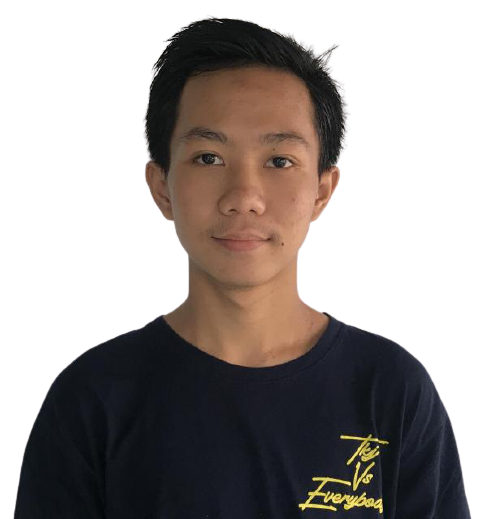
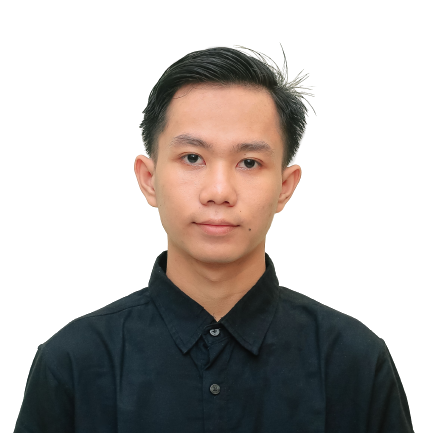
update data and enhance design

diff --git a/src/styles/style.css b/src/styles/style.css
@@ -222,7 +222,7 @@ a {
 }
 
 .home-blob-img {
-  width: 170px;
+  width: 180px;
 }
 
 .home-img {
@@ -237,8 +237,14 @@ a {
 
 .home-title .iam,
 .home-greeting,
-.home-subtitle {
+.home-subtitle,
+.about {
   color: var(--text-color);
+}
+
+.about {
+  margin-top: 0.7rem;
+  margin-bottom: 0.7rem;
 }
 
 .home-social-media {
@@ -274,6 +280,10 @@ a {
   height: 20px;
 }
 
+.be-skill .skills-logo {
+  height: 25px;
+}
+
 .skills-container {
   row-gap: 0;
 }
@@ -306,6 +316,7 @@ a {
 .skills-list {
   height: 0;
   overflow: hidden;
+  text-align: center;
 }
 
 .skill-desc {
@@ -317,7 +328,6 @@ a {
 .skills-open .skills-list {
   height: max-content;
   margin-bottom: 1rem;
-  margin-left: 1rem;
 }
 
 .skills-open .skills-arrow {
@@ -531,10 +541,23 @@ a {
   color: hsl(133, 50%, 95%);
   padding: 0.7rem 5%;
   margin-bottom: var(--header-height);
+}
+
+.footer .first-line{
+  font-size: 1.1rem;
   display: flex;
   justify-content: space-between;
   align-items: center;
-  font-size: 1.1rem;
+}
+
+.footer .inspired {
+  text-align: center;
+  font-size: 0.7rem;
+  position: relative;
+}
+
+.footer a {
+  color: hsl(133, 50%, 95%);
 }
 
 .footer-social-media .socmed-icon {
@@ -661,7 +684,6 @@ a {
 
   .home-data {
     grid-column: initial;
-    padding-top: 5rem;
   }
 
   .home-img {
@@ -676,6 +698,15 @@ a {
     grid-template-columns: repeat(2, 1fr);
   }
 
+  .skills-list {
+    text-align: start;
+    margin-left: 1rem;
+  }
+
+  .be-skill .skills-logo {
+    height: 30px;
+  }  
+
   .contact-container {
     grid-template-columns: repeat(3, 1fr);
   }
@@ -686,6 +717,11 @@ a {
 
   .footer {
     margin-bottom: 0;
+  }
+
+  .footer .inspired {
+    top: -25px;
+    height: 0
   }
 }
 
@@ -716,8 +752,8 @@ a {
     font-size: 1.7rem;
   }
 
-  .home-data {
-    padding-top: 3rem;
+  .about {
+    font-size: 1.1rem;
   }
 
   .footer {

diff --git a/index.html b/index.html
@@ -38,27 +38,30 @@
     </main>
 
     <footer class="footer" id="footer">
-      <div class="copyright">
-        <i class="uil uil-copyright"></i>
-        2022 | Zidni Rif'an
+      <div class="first-line">
+        <div class="copyright">
+          <i class="uil uil-copyright"></i>
+          <script>document.write(/\d{4}/.exec(Date())[0])</script> | Zidni Rif'an
+        </div>
+        <div class="footer-social-media">
+          <a
+            href="https://www.linkedin.com/in/zidnirifan"
+            class="socmed-icon"
+            target="_blank"
+            ><i class="uil uil-linkedin"></i
+          ></a>
+          <a
+            href="https://github.com/zidnirifan"
+            class="socmed-icon"
+            target="_blank"
+            ><i class="uil uil-github"></i
+          ></a>
+          <a href="https://instagram.com/zidni_rifan" class="socmed-icon" target="_blank"
+            ><i class="uil uil-instagram"></i
+          ></a>
+        </div>
       </div>
-      <div class="footer-social-media">
-        <a
-          href="https://www.linkedin.com/in/zidnirifan"
-          class="socmed-icon"
-          target="_blank"
-          ><i class="uil uil-linkedin"></i
-        ></a>
-        <a
-          href="https://github.com/zidnirifan"
-          class="socmed-icon"
-          target="_blank"
-          ><i class="uil uil-github"></i
-        ></a>
-        <a href="https://instagram.com" class="socmed-icon" target="_blank"
-          ><i class="uil uil-instagram"></i
-        ></a>
-      </div>
+      <div class="inspired">Inspired from <a href="https://www.youtube.com/@Bedimcode" target="_blank">@Bedimcode</a></div>
     </footer>
 
     <!-- Scroll up -->

diff --git a/src/scripts/components/skills-section.js b/src/scripts/components/skills-section.js
@@ -34,19 +34,8 @@ class SkillsSection extends HTMLElement {
     this.innerHTML = /* html */ `<section class="skills section" id="skills">
       <h2 class="section-title">Skills</h2>
       <div class="skills-container grid">
-        <div class="skills-content skills-open">
-          <div class="skills-header">
-            <i class="uil uil-brackets-curly skills-icon"></i>
-            <h3 class="skills-title">Front-End Development</h3>
-            <i class="uil uil-angle-down skills-arrow"></i>
-          </div>
-          <div class="skills-list">
-          <p class="skill-desc">${skillsList.frontEnd.desc}</p>
-           ${this.frontEndSkills.outerHTML}
-          </div>
-        </div>
 
-        <div class="skills-content">
+      <div class="skills-content skills-open be-skill">
           <div class="skills-header">
             <i class="uil uil-server-network skills-icon"></i>
             <h3 class="skills-title">Back-End Development</h3>
@@ -55,6 +44,18 @@ class SkillsSection extends HTMLElement {
           <div class="skills-list">
           <p class="skill-desc">${skillsList.backEnd.desc}</p>
             ${this.backEndSkills.outerHTML}
+          </div>
+        </div>
+
+        <div class="skills-content">
+          <div class="skills-header">
+            <i class="uil uil-brackets-curly skills-icon"></i>
+            <h3 class="skills-title">Front-End Development</h3>
+            <i class="uil uil-angle-down skills-arrow"></i>
+          </div>
+          <div class="skills-list">
+          <p class="skill-desc">${skillsList.frontEnd.desc}</p>
+           ${this.frontEndSkills.outerHTML}
           </div>
         </div>
 

diff --git a/src/scripts/components/home-section.js b/src/scripts/components/home-section.js
@@ -40,7 +40,8 @@ class HomeSection extends HTMLElement {
         <div class="home-data">
           <h3 class="home-greeting">Hello</h3>
           <h1 class="home-title"><span class="iam">I AM</span> ZIDNI RIF'AN</h1>
-          <h3 class="home-subtitle">Fullstack Web Developer</h3>
+          <h3 class="home-subtitle">Backend Developer</h3>
+          <p class="about">I am a backend developer with expertise in designing and developing scalable and reliable server-side apps. I enjoy collaborating with other developers and stakeholders to deliver high-quality products that meet user needs and expectations. I like to learn new things and can learn them quickly.</p>
           <div class="home-social-media">
             <a
               href="https://www.linkedin.com/in/zidnirifan"
